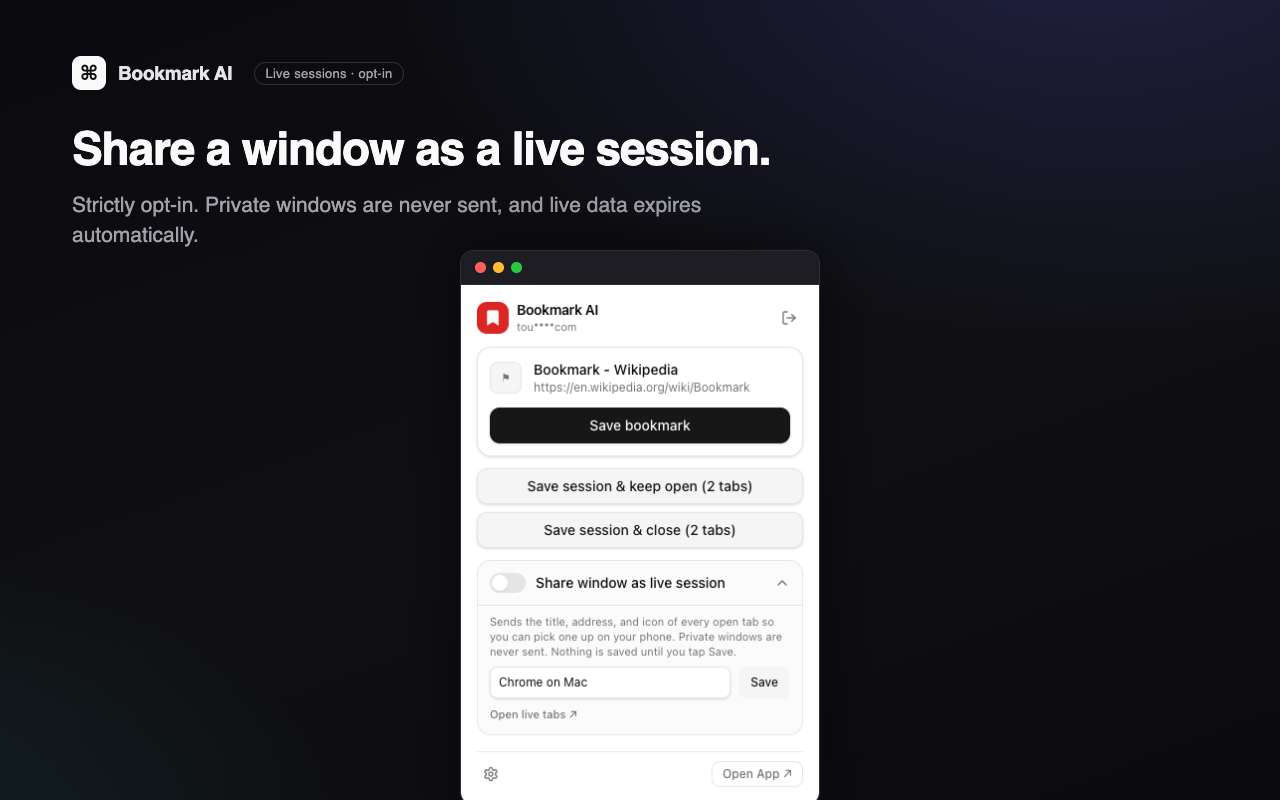
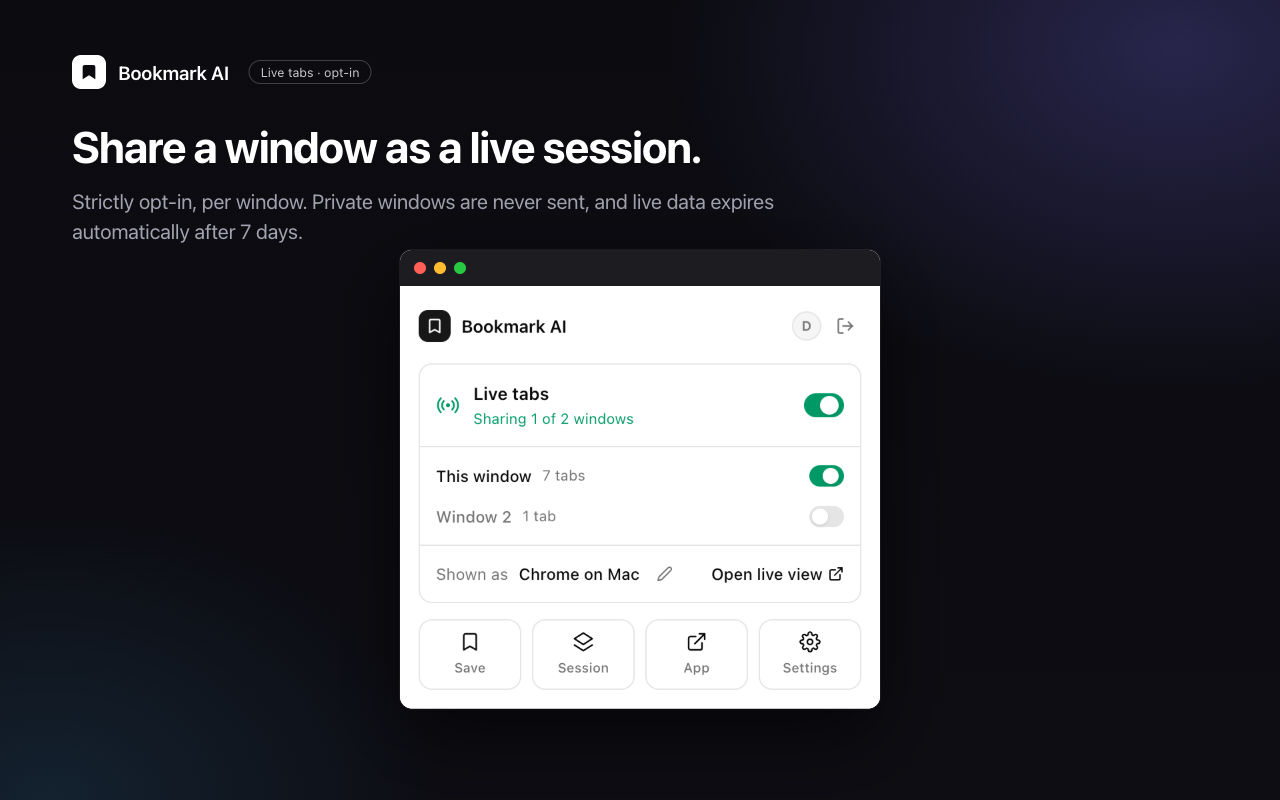
docs(extension): store listing assets + AMO copy for the 0.1.2 submissions
- store-assets: five fresh 1280×800 screenshots of the production-look popup and web app (save, library, search by meaning, live opt-in, live view), 440×280 promo tile, README with captions and the capture recipe; the July local-build shots are gone
- AMO-LISTING.md: paste-ready Firefox Add-ons listing (summary, description, categories, license, inline privacy policy matching the manifest's data-collection declaration, notes to reviewer)
- STORE-LISTING.md: support email, bookmarks/readingList/tabGroups permission justifications, notes-to-reviewer block, captions aligned to the new files

Claude-Session: https://claude.ai/code/session_01KvVoZKFDaKCUhXnTUii9Fc

diff --git a/apps/extension/AMO-LISTING.md b/apps/extension/AMO-LISTING.md
@@ -1,0 +1,182 @@
+# Firefox Add-ons (AMO) — listing content & submission guide
+
+Everything to paste into the AMO Developer Hub (https://addons.mozilla.org/developers/) for
+the first submission of the Firefox build. The CWS equivalent lives in `STORE-LISTING.md`;
+the marketing copy is shared, the privacy/permissions wording below is adapted to AMO's
+fields and to the `data_collection_permissions` declaration in the manifest.
+
+Upload package: `pnpm --filter @bookmark-ai/extension zip:firefox` →
+`.output/bookmark-aiextension-<version>-firefox.zip`. AMO also requires the **source code
+zip** for review because the add-on is bundled/minified:
+`pnpm --filter @bookmark-ai/extension zip:store` (`scripts/store-zip.mjs`) writes
+`.output/bookmark-aiextension-<version>-sources.zip` with everything needed to rebuild
+`firefox-mv2` plus a generated `BUILD.md` — see "Notes to Reviewer" below.
+
+---
+
+## 1 · "Describe Add-on" step
+
+**Name**
+
+> Bookmark AI
+
+**Add-on URL** (slug)
+
+> bookmark-ai
+
+**Summary** (≤ 250 chars, plain text — shown in search results and at the top of the listing)
+
+> Save any page in one click and let AI file and tag it. Find it again by meaning, not keywords. Save whole windows as sessions, and opt in to see your open tabs on every device, live.
+
+(197 characters.)
+
+**Description** (AMO allows a small HTML subset: `<b> <i> <a> <ul> <ol> <li> <blockquote> <abbr> <acronym> <code>`
+plus line breaks. Paste as-is.)
+
+> Bookmark AI turns "I'll save this for later" into something that actually works later.
+>
+> <b>One-click save</b>
+> Click the toolbar icon (or press Alt+Shift+S) and the page is saved — title, icon and link included. No folders to file into, no copy-pasting URLs.
+>
+> <b>AI does the filing</b>
+> Every save is read, categorized and tagged automatically, using the AI provider you choose (bring your own key — free options work). Your library stays organized without you maintaining anything.
+>
+> <b>Search by meaning</b>
+> Hybrid search blends full-text with semantic vectors, so a vague memory like "that article about focus" finds the page even when those words never appear on it.
+>
+> <b>Save whole sessions</b>
+> Snapshot an entire window of tabs as one session and pick your research back up later.
+>
+> <b>Mirror your Firefox bookmarks</b>
+> Bookmarks you add in Firefox itself (Ctrl/Cmd+D) land in your library too, categorized like everything else. On by default — switch it off in Settings → Sync on the website.
+>
+> <b>Live tabs, on every device (opt-in)</b>
+> Turn on "Live tabs" and the tabs you have open appear on your other devices in real time. Close the laptop, open your phone, keep reading. Off by default, private windows are never sent, credential-looking URLs are reduced to their origin, and live data expires automatically after 7 days.
+>
+> <b>Private by design</b>
+> You sign in once on the website — the extension mirrors that session. Nothing is collected beyond what makes your own library work, and live sharing is strictly opt-in. Full policy: <a href="https://www.bookmark-ai.cloud/privacy">https://www.bookmark-ai.cloud/privacy</a>
+>
+> <b>Open source</b>
+> The whole product is open source (MIT) and self-hostable. Docs: <a href="https://docs.bookmark-ai.cloud">https://docs.bookmark-ai.cloud</a>
+>
+> <i>Requires a free Bookmark AI account — sign in at https://www.bookmark-ai.cloud first; the add-on picks the session up automatically.</i>
+
+**Categories** (Firefox — pick up to two)
+
+- Bookmarks
+- Tabs
+
+**Support email**
+
+> tara@purecode.ai
+
+**Support website**
+
+> https://docs.bookmark-ai.cloud
+
+**Homepage**
+
+> https://www.bookmark-ai.cloud
+
+**License**
+
+> MIT License (the repository's `LICENSE`, © 2026 Tarachand Gupta). Pick "MIT/X11 License" in
+> the dropdown.
+
+**Privacy policy** (AMO requires the text INLINE when the add-on collects data — paste this
+verbatim; it matches the manifest's `data_collection_permissions` declaration and the
+Chrome data-usage disclosures.)
+
+> Bookmark AI collects only what is needed to run your own bookmark library, and only for
+> the account you sign in with.
+>
+> Authentication information: the add-on mirrors your existing sign-in on
+> www.bookmark-ai.cloud (a session token and the name/email of your account) so it can save
+> to your library without asking for credentials in the popup.
+>
+> Bookmarks: the address, title and icon of pages you explicitly save, plus bookmarks you
+> add or remove in Firefox itself while bookmark mirroring is on (on by default; switch it
+> off in Settings → Sync on the website).
+>
+> Browsing activity: the tabs of a window when you choose "Save session", and — only if you
+> turn on "Live tabs" — the title, address and icon of your open tabs so they can appear on
+> your other signed-in devices. Live tabs is off by default, private windows are never sent,
+> URLs that look like they carry credentials are reduced to their origin, and live data
+> expires automatically after 7 days.
+>
+> Technical data: the browser, device type and operating system name attached to each save
+> so your library can be filtered by device.
+>
+> Nothing is sold, shared with third parties, or used for advertising or profiling. Data is
+> processed by the Bookmark AI service you signed in to (or your own self-hosted instance).
+> You can export or delete everything from Settings → Account on the website. Full policy:
+> https://www.bookmark-ai.cloud/privacy
+
+## 2 · Technical details / version notes
+
+**Release notes** (first version)
+
+> First public release. One-click save with AI categorization and tagging, search by meaning,
+> window sessions, Firefox bookmark mirroring, and opt-in live tabs across devices.
+
+**"This add-on requires payment, non-free services or software, or additional hardware"**:
+No (the hosted service has a free plan; self-hosting is free).
+
+**Whiteboard / Notes to Reviewer** — paste into the "Notes to Reviewer" box:
+
+> ACCOUNT REQUIREMENT
+> The add-on has no sign-in UI of its own. Sign in on https://www.bookmark-ai.cloud first
+> (any browser session in the same Firefox profile); the add-on's background script mirrors
+> that session through the `cookies` permission on our own auth domain
+> (clerk.bookmark-ai.cloud) and shows the save UI. Until then the popup shows a single
+> "Sign in" button that opens the website.
+>
+> TEST ACCOUNT: <email> / <password> (Tara fills in)
+>
+> BUILD
+> Built with WXT (Vite) from the attached sources zip. `BUILD.md` in the zip has the exact
+> steps; in short: Node 22, pnpm 10.34.1,
+> `pnpm --filter @bookmark-ai/extension... install --frozen-lockfile`, then
+> `pnpm --filter @bookmark-ai/extension build:firefox` → `.output/firefox-mv2`, which is
+> byte-identical to the uploaded package.
+>
+> LINTER WARNINGS
+> The `innerHTML`/`unsafe-assignment` warnings come from bundled third-party dependencies
+> (React DOM and the Clerk client SDK), not from our code. Our own source contains no
+> innerHTML assignments. No remote code is loaded or executed.
+>
+> PERMISSIONS
+> `activeTab`/`tabs`: read the page being saved and list the window's tabs for "Save
+> session" and (opt-in) live tabs. `bookmarks`: mirror bookmarks the user adds/removes in
+> Firefox into their library (toggle in Settings → Sync). `storage`/`alarms`: local
+> settings and the periodic heartbeat that expires an opted-in device's live tabs.
+> `cookies` + host permissions: our own domains only (bookmark-ai.cloud, www., clerk., live.).
+> No third-party sites are ever accessed.
+
+## 3 · Listing images
+
+Reuse the CWS assets in `store-assets/` (AMO accepts PNG/JPG; screenshots are displayed at
+their native size and scaled down, 1280×800 works). Upload the icon `public/icon/128.png`
+(AMO also asks for a 64×64 — `public/icon/96.png` is accepted and scaled, or export 64 from
+`scripts/generate-icons.mjs`). Captions per image are in `store-assets/README.md`.
+
+## 4 · Submission walkthrough
+
+1. https://addons.mozilla.org/developers/ → sign in with the Mozilla account → "Submit a New Add-on".
+2. "On this site" distribution → upload `bookmark-aiextension-<version>-firefox.zip`.
+3. The validator will flag "innerHTML" warnings from bundled deps — proceed; the note above
+   explains them.
+4. "Do you need to submit source code?" → **Yes** → upload
+   `bookmark-aiextension-<version>-sources.zip` (contains `BUILD.md`).
+5. Describe Add-on (section 1), then Technical details / Notes to Reviewer (section 2), then
+   images (section 3).
+6. Submit. First review of an add-on with `tabs` + `cookies` + `bookmarks` is manual and can
+   take several days; the test account is what unblocks it.
+7. After approval: `WEB_EXT_API_KEY`/`WEB_EXT_API_SECRET` (from the AMO API keys page) go
+   into the GitHub secrets so `RELEASING.md`'s Firefox step can sign future versions, and the
+   listing URL goes onto the website's install buttons and the docs install page.
+
+The gecko id is fixed in the manifest (`bookmark-ai@purecode.ai`,
+`browser_specific_settings.gecko.id`), so the reviewed id is the same one the local
+`firefox-mv2` build already uses — no allowed-origins change is needed for Firefox (page →
+extension messaging isn't used there; see `CLAUDE.md`).

diff --git a/apps/extension/STORE-LISTING.md b/apps/extension/STORE-LISTING.md
@@ -31,9 +31,9 @@ removed and the private key bundled as `key.pem`, which keeps the pinned extensi
 > link included. No folders to file into, no copy-pasting URLs.
 >
 > AI DOES THE FILING
-> Every save is read, categorized and tagged automatically, using the AI provider you
-> choose (bring your own key — free options work). Your library stays organized without
-> you maintaining anything.
+> Every save is read, categorized and tagged automatically. 1,000 free AI credits are
+> included, or bring your own API key. Your library stays organized without you
+> maintaining anything.
 >
 > SEARCH BY MEANING
 > Hybrid search blends full-text with semantic vectors, so a vague memory like "that
@@ -60,24 +60,25 @@ removed and the private key bundled as `key.pem`, which keeps the pinned extensi
 **Category**: Productivity · **Language**: English
 
 **Additional fields**
-- Official URL / homepage: `https://bookmark-ai.cloud`
+- Official URL / homepage: `https://www.bookmark-ai.cloud`
 - Support URL: `https://docs.bookmark-ai.cloud` (or the GitHub issues page if the repo goes public)
+- Support email: `tara@purecode.ai`
 
 ## 2 · Graphic assets
 
 | Asset | Size | Required | Source |
 | --- | --- | --- | --- |
 | Store icon | 128×128 PNG | yes | already in the zip: `icon/128.png` (dashboard picks it up from the manifest; upload the same file if asked) |
-| Screenshots (1–5) | **1280×800** (preferred) or 640×400, PNG/JPEG, no alpha | at least 1 | see shot list below |
-| Small promo tile | 440×280 | no (recommended) | brand mark on dark background + one-liner |
+| Screenshots (1–5) | **1280×800** (preferred) or 640×400, PNG/JPEG, no alpha | at least 1 | `store-assets/1-save.png … 5-live.png` — captions + provenance in `store-assets/README.md` |
+| Small promo tile | 440×280 | no (recommended) | `store-assets/promo-440x280.png` — brand mark on dark background + one-liner |
 | Marquee promo | 1400×560 | no | only if featured placement is ever pursued |
 
 **Screenshot shot list** (in display order, with suggested captions):
-1. The popup open over a real article, Save bookmark button visible — "One click saves the page you're on."
-2. The library grid with categories/tags sidebar — "Every save lands filed, tagged, and searchable."
-3. Search results for a vague query showing `meaning` matches — "Search by meaning, not keywords."
-4. The popup's "Share window as live session" card expanded, toggle on — "Opt in to see your open tabs on any device."
-5. The Live sessions view with a device streaming its tabs — "Your tabs, everywhere, live."
+1. `1-save.png` — the popup on a real article, Save bookmark button visible — "One click saves the page you're on."
+2. `2-library.png` — the library grid with categories/tags sidebar — "Every save lands filed, tagged, and searchable."
+3. `3-search.png` — results for a vague query, "closest results by meaning" — "Search by meaning, not keywords."
+4. `4-live-optin.png` — the popup's Live tabs panel expanded, sharing on for one window — "Share a window as a live session."
+5. `5-live.png` — the Live sessions view with a device streaming its tabs — "Your open tabs, on every device, live."
 
 Rules of thumb: exact pixel size (1280×800), real UI only (no mockups that misrepresent),
 readable text, no personal data in frame — use a demo account with curated bookmarks,
@@ -100,6 +101,9 @@ window on the demo pages, app shots from a demo-seeded session — ask.)
 | `storage` | Store the user's extension settings (API URL, device name, live-sharing preference) locally. |
 | `alarms` | Periodic heartbeat so an opted-in device's live-tab mirror stays fresh and expires server-side when the device goes quiet. |
 | `cookies` | Read the session cookie of our own auth domain (clerk.bookmark-ai.cloud) so the extension reuses the website sign-in instead of asking for credentials in the popup. |
+| `bookmarks` | Mirror bookmarks the user adds/removes in the browser into their library — on by default, toggle in Settings → Sync. Only add/remove events are observed (no bulk reads; imports and restores are skipped). |
+| `readingList` | Mirror Reading List additions the same way (saved with the `reading` tag). |
+| `tabGroups` | Restore a saved session as one titled tab group instead of loose tabs. |
 | Host permissions — exactly four: `https://bookmark-ai.cloud/*`, `https://www.bookmark-ai.cloud/*`, `https://clerk.bookmark-ai.cloud/*`, `https://live.bookmark-ai.cloud/*` | All are the product's own first-party endpoints: the web app + its API (apex redirects to www), our authentication domain, and our live-sessions server. No third-party sites are accessed; dev/localhost origins exist only in non-store builds. |
 
 **Data usage disclosures** — tick exactly these:
@@ -111,6 +115,20 @@ window on the demo pages, app shots from a demo-seeded session — ask.)
 **Privacy policy URL** (required because data is collected):
 
 > https://www.bookmark-ai.cloud/privacy
+
+**Notes to reviewer** (the dashboard has no dedicated field until a review is opened — paste
+this into the reply to the first review email, or into the "additional notes" box if the
+Privacy tab shows one; the AMO listing carries the same text in `AMO-LISTING.md`):
+
+> The extension has no sign-in UI of its own. Sign in on https://www.bookmark-ai.cloud first
+> (same Chrome profile); the extension mirrors that session through the `cookies` permission
+> on our own auth domain (clerk.bookmark-ai.cloud) and then shows the save UI. Until then the
+> popup shows a single "Sign in" button that opens the website.
+>
+> TEST ACCOUNT: <email> / <password> (Tara fills in)
+>
+> Built with WXT (Vite); `pnpm --filter @bookmark-ai/extension build` reproduces the uploaded
+> `chrome-mv3` bundle (Node 22, pnpm 10.34.1). No remote code is loaded or executed.
 
 ## 4 · Distribution tab
 

diff --git a/apps/extension/store-assets/README.md b/apps/extension/store-assets/README.md
@@ -1,0 +1,47 @@
+# Store assets
+
+Listing graphics for the Chrome Web Store and Firefox Add-ons submissions (`STORE-LISTING.md`,
+`AMO-LISTING.md`). Every screenshot is **1280×800 PNG, RGB, no alpha** (verify with
+`sips -g pixelWidth -g pixelHeight -g hasAlpha <file>` → `1280 / 800 / no`), composed in the
+shared style: dark gradient, brand mark + context pill, headline, grey subline, the real UI in a
+macOS-style window. Real UI only — the production look (black/white icon plate, name
+"Bookmark AI") of the current popup, and the signed-in web app on a curated demo library. No
+personal data is in frame; the account is a throwaway "Demo User" on the dev Clerk instance and
+the library was seeded with public docs/articles for the shoot.
+
+| File | Size | Shows | Caption to enter in the store |
+| --- | --- | --- | --- |
+| `1-save.png` | 1280×800 | Popup on an MDN article: favicon, title, domain, **Save bookmark**, Save session / Save & close tiles, Live tabs (off), Open app → `www.bookmark-ai.cloud`, device footer | One click saves the page you're on. Toolbar click or Alt+Shift+S — title, icon and link captured; AI files and tags it for you. |
+| `2-library.png` | 1280×800 | Web app `/app/library`, grid view: sidebar with categories/browsers counts, tag rail, "Today" group with categorized + tagged cards | Every save lands filed, tagged, and searchable. Auto-categorized on save; hybrid search finds pages by meaning, not just keywords. |
+| `3-search.png` | 1280×800 | Web app search for "the classic transformer paper and how to use those models today", list view — "No exact matches — showing the closest results by meaning." with the two semantic hits | Search by meaning, not keywords. Describe what you remember — full-text and semantic search are blended, so the right page surfaces even when its words never appear in your query. |
+| `4-live-optin.png` | 1280×800 | Popup Live tabs panel expanded: master switch on, per-window rows (this window shared, a second window not), device name "Chrome on Mac", compact action strip | Share a window as a live session. Strictly opt-in, per window. Private windows are never sent, and live data expires automatically after 7 days. |
+| `5-live.png` | 1280×800 | Web app `/app/library?section=live`: device "Chrome on Mac" streaming, "Window 1 · 7 tabs" expanded with tab titles + favicons | Your open tabs, on every device, live. Close the laptop, open your phone, keep reading — tabs stream to your other devices in real time. |
+| `promo-440x280.png` | 440×280 | CWS small promo tile — brand mark + one-liner, no screenshots | (no caption field) |
+
+Display order in the store = file number order. CWS accepts 1–5 screenshots; all five are real
+captures (none blocked). AMO reuses the same five.
+
+## How they were made (repeatable)
+
+- **Popup**: the LOCAL WXT build (`.output/chrome-mv3-dev`, pointed at `localhost:3000` with
+  `DEV_OPEN_API=1`) copied out of the tree, with `icon-local/*.png` replaced by `icon/*.png` and
+  the manifest `name` set to `Bookmark AI`, loaded into Chrome for Testing via puppeteer-core
+  (`--load-extension`, `--disable-background-timer-throttling
+  --disable-backgrounding-occluded-windows --disable-renderer-backgrounding`). The popup is
+  opened as `chrome-extension://<id>/popup.html` in a BACKGROUND tab while the MDN article tab
+  is active (so it detects the article), clicks are DOM `.click()` in `evaluate`, waits use
+  `waitForFunction(…, {polling:"mutation"})`. Captured at 360 CSS px × 2, light colour scheme
+  (`emulateMediaFeatures`). For shot 1 only, `chrome.storage.local.apiUrl` was set to
+  `https://www.bookmark-ai.cloud` for the duration of the capture so the Open-app tile shows
+  the production host instead of `localhost:3000` (removed right after).
+- **Web app**: same CfT profile signed in through the real Clerk sign-in UI as a demo user,
+  light theme, 1136×760 CSS viewport × 2, Next.js dev badge hidden via an injected
+  `nextjs-portal{display:none}` style. Shot 5 is a real stream: the loaded extension's Live tabs
+  switch was turned on, and the local live server (`localhost:8091`) fanned the window out to
+  the web view.
+- **Frames**: an HTML template rendered by the same browser at `deviceScaleFactor: 1`,
+  viewport 1280×800, with the capture embedded as an `<img>` inside the window frame.
+
+Regenerating: the scratch scripts (`launch-browser.mjs`, `popup-capture.mjs`,
+`capture-web.mjs`, `compose.mjs` + `specs/*.json`) lived in the session scratchpad; the recipe
+above plus `docs/TESTING.md` §3 is enough to rebuild them.
